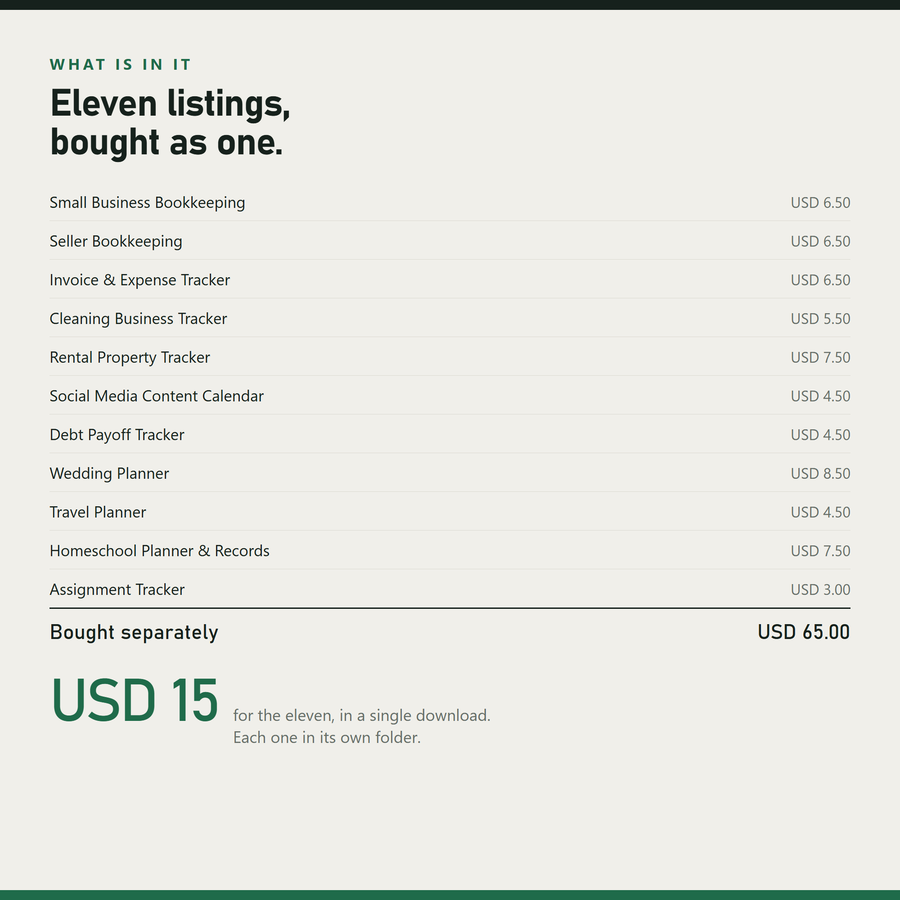
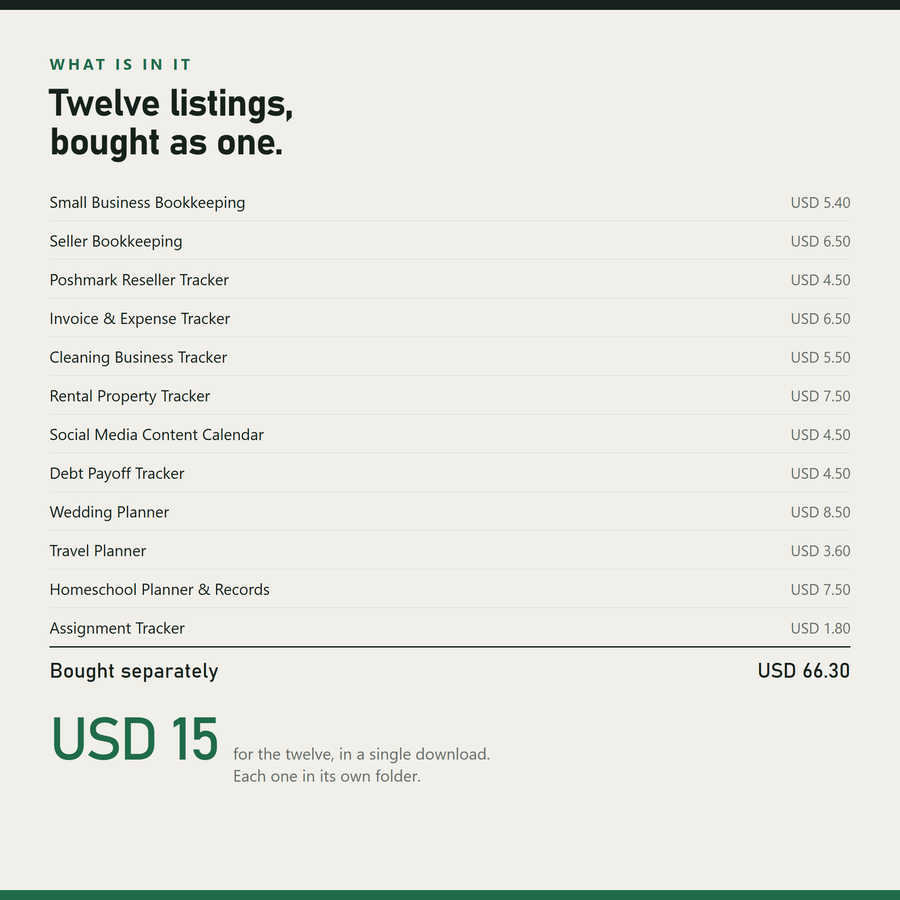
Project Management no catalogo, e o bundle volta a ser treze

diff --git a/lib/productPages.ts b/lib/productPages.ts
@@ -122,6 +122,14 @@ export const productPages: Record<string, ProductPage> = {
     forWho:
       "For resellers who list under fifteen dollars often enough that the flat fee matters. That is where a percentage-based spreadsheet lies to you: $2.95 on a $5.00 sale is 59%, and listing at $12.00 leaves you less than listing at $15.00.",
   },
+"project-management-spreadsheet": {
+    sheets: ["Dashboard", "Settings", "Tasks", "Timeline", "Workload",
+             "Charts", "On your phone"],
+    notDoes:
+      "It is not a Kanban board -- a spreadsheet does not drag cards -- and it does not resolve a whole network of dependencies or compute a critical path: one task waits for one task. Days are calendar days, so if your team works five days a week, plan the extra days in yourself.",
+    forWho:
+      "For anyone running a plan that other people are waiting on. The three bestsellers in this category all sell the same trio -- Gantt, Kanban, Eisenhower -- and every one of them draws the tasks you typed. This one moves the finish date when a task slips, and adds up the hours landing on each person.",
+  },
   "spreadsheet-bundle": {
     // Aqui `sheets` nao sao abas: sao os onze arquivos. A secao da pagina se
     // chama "What is inside", e para o conjunto o que esta dentro sao os
@@ -132,7 +140,7 @@ export const productPages: Record<string, ProductPage> = {
              "Debt Payoff Tracker", "Wedding Planner", "Travel Planner",
              "Homeschool Planner & Records", "Assignment Tracker"],
     notDoes:
-      "It does not include the Notion template, which is not a file. Bought separately these twelve cost USD 66.30; the bundle does not add anything that is not already in one of them.",
+      "It does not include the Notion template, which is not a file. Bought separately these thirteen cost USD 72.60; the bundle does not add anything that is not already in one of them.",
     forWho:
       "People who want the whole set at once rather than picking one now and paying full price for the next.",
   },

diff --git a/lib/products.ts b/lib/products.ts
@@ -324,13 +324,33 @@ export const products: Product[] = [
     tags: ["Resellers", "Poshmark"],
   },
   {
+    id: "4570829237",
+    // Segundo so-Etsy da linha. Vai para a Payhip depois; ate la o nulo
+    // mantem `listingUrl` apontando para onde o produto existe de verdade.
+    payhip: null,
+    slug: "project-management-spreadsheet",
+    // O PRIMEIRO termo da linha escolhido por demanda medida antes de
+    // construir: 328 buscas/mes crescendo 114,6%, conversao Very high, e a
+    // Etsy dizia "No listings detected" para a nossa loja.
+    term: "project management spreadsheet",
+    name: "Project Management Tracker",
+    does: "Starts every task on the later of your planned day and the day after the one it waits for, so when a task slips the finish date moves with it.",
+    standout: "Computed finish date",
+    price: 6.3,
+    // Ardosia: as familias de azul do catalogo (2A5D7C, 3B4A8C, 1D6A73,
+    // 2A7B8C) sao todas saturadas; esta e neutra e le como ferramenta.
+    accent: "#37474F",
+    shot: "/shots/project.png",
+    tags: ["Project teams", "Planning"],
+  },
+  {
     id: "4568054728",
     payhip: "stI8r",
     slug: "spreadsheet-bundle",
     term: "small business spreadsheet bundle",
-    name: "Complete Bundle, 12 Spreadsheets",
+    name: "Complete Bundle, 13 Spreadsheets",
     does: "Puts every spreadsheet in the shop in one download, each in its own folder with the example file and the guide that comes with it.",
-    standout: "USD 66.30 of templates for 15",
+    standout: "USD 72.60 of templates for 15",
     price: 15,
     accent: "#1F6F4A",
     shot: "/shots/bundle.png",
